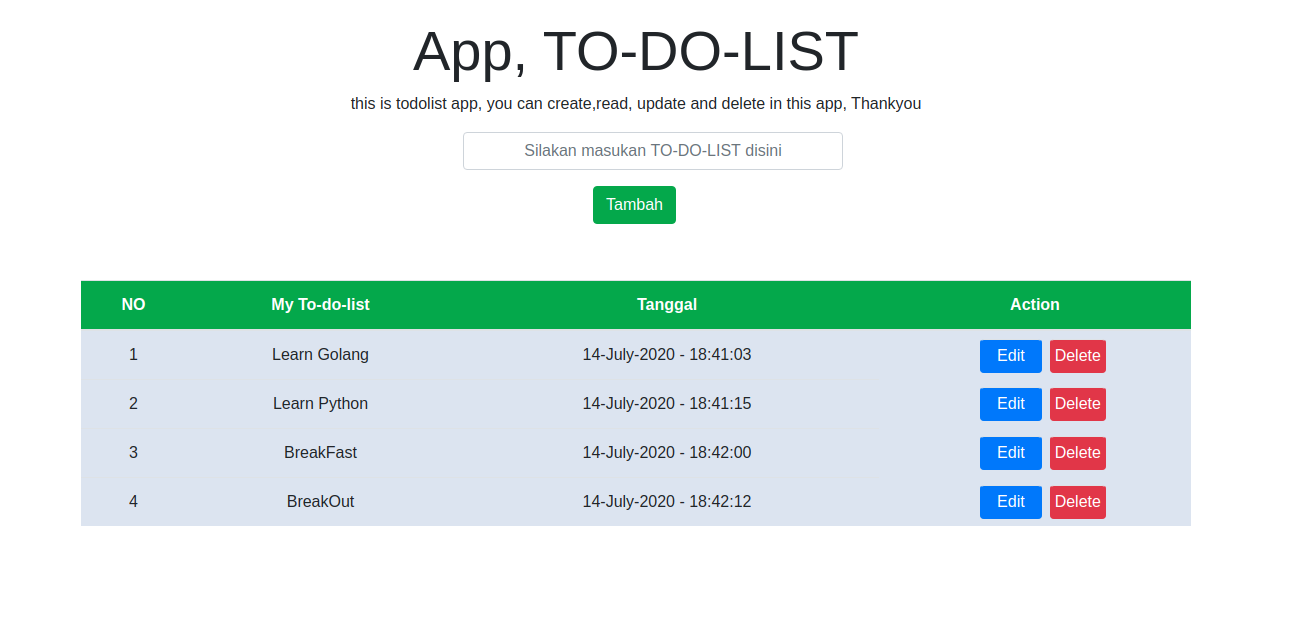
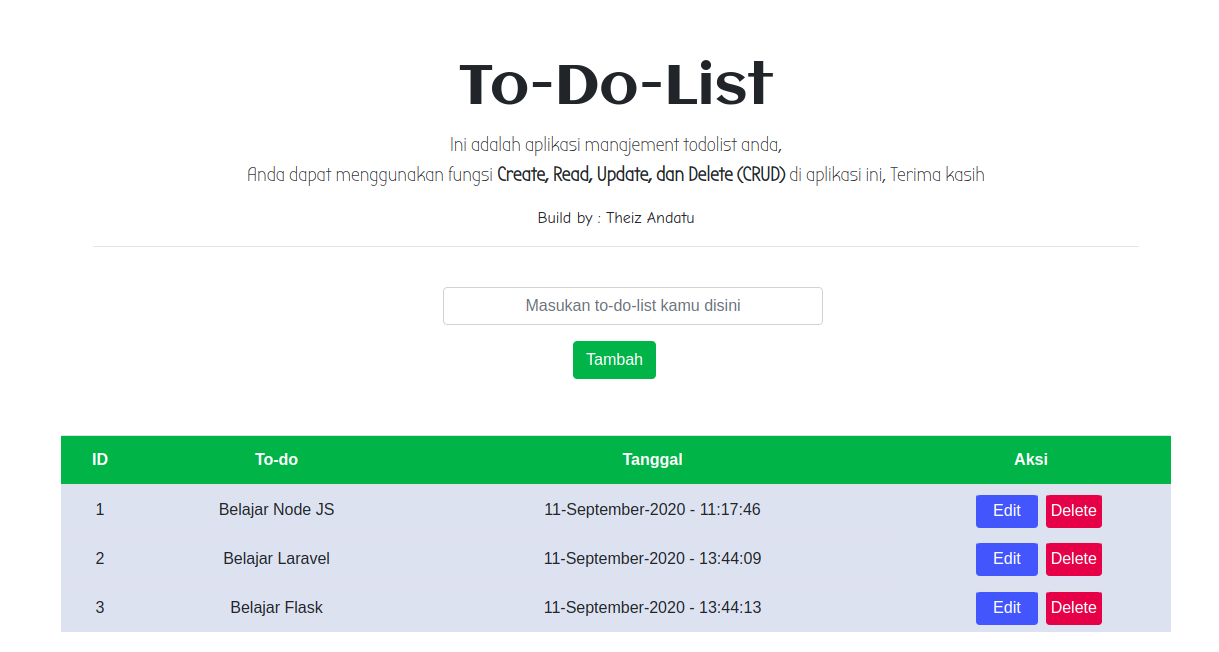
update readme

diff --git a/app/templates/home.html b/app/templates/home.html
@@ -4,14 +4,18 @@
 {% block content %}
 <div class="container">
   <div class="jumbotron" style="background-color: white;">
-    <h1 class="display-4 text-center">App, TO-DO-LIST</h1>
-    <p class="text-center">this is todolist app, you can create,read, update and delete in this app, Thankyou</p>
+    <h1 class="display-4 text-center" style="font-family: Aclonica;">To-Do-List</h1>
+    <p class="text-center" style="font-family: Bubbler One; font-size: 20px;">
+      Ini adalah aplikasi manajement todolist anda, <br> Anda dapat menggunakan fungsi <b>Create, Read, Update, dan Delete (CRUD)</b> di aplikasi ini, Terima kasih</p>
+    <p class="text-center" style="font-family: Comic Neue;">Build by : Theiz Andatu</p>
+    <hr>
+    <br>
     <form action="" method="POST">
       {% if edit %}
         <input type="text" name='todo' class='form-control text-center mb-3' , style="width: 380px; margin-left: 350px;" , value='{{ editTodo.mytodolist }}'>
         {{ form.update(class='btn btn-success text-center',style="margin-left: 480px;") }}
       {% else %}        
-        <input type="text" name='todo' class='form-control text-center mb-3' , style="width: 380px; margin-left: 350px;" , placeholder="Silakan masukan TO-DO-LIST disini">
+        <input type="text" name='todo' class='form-control text-center mb-3' , style="width: 380px; margin-left: 350px;" , placeholder="Masukan to-do-list kamu disini">
         {{ form.submit(class='btn btn-success text-center',style="margin-left: 480px;") }}
       {% endif %}
     </form>
@@ -21,10 +25,10 @@
   <table class="table table-hover text-center" style="background-color: #dce4f1; margin-top: -40px;">
     <thead class="btn-success">
       <tr>
-        <th scope="col">NO</th>
-        <th scope="col">My To-do-list</th>
+        <th scope="col">ID</th>
+        <th scope="col">To-do</th>
         <th scope="col">Tanggal</th>
-        <th scope="col">Action</th>
+        <th scope="col">Aksi</th>
       </tr>
     </thead>
     <tbody>

diff --git a/app/templates/layout.html b/app/templates/layout.html
@@ -7,7 +7,9 @@
 
     <!-- Bootstrap CSS -->
     <link rel="stylesheet" href="https://stackpath.bootstrapcdn.com/bootstrap/4.5.0/css/bootstrap.min.css" integrity="sha384-9aIt2nRpC12Uk9gS9baDl411NQApFmC26EwAOH8WgZl5MYYxFfc+NcPb1dKGj7Sk" crossorigin="anonymous">
-
+    <link href='https://fonts.googleapis.com/css?family=Aclonica' rel='stylesheet'>
+    <link href='https://fonts.googleapis.com/css?family=Bubbler One' rel='stylesheet'>
+    <link href='https://fonts.googleapis.com/css?family=Comic Neue' rel='stylesheet'>
     <title>{{judul}}</title>
   </head>
   <body>
